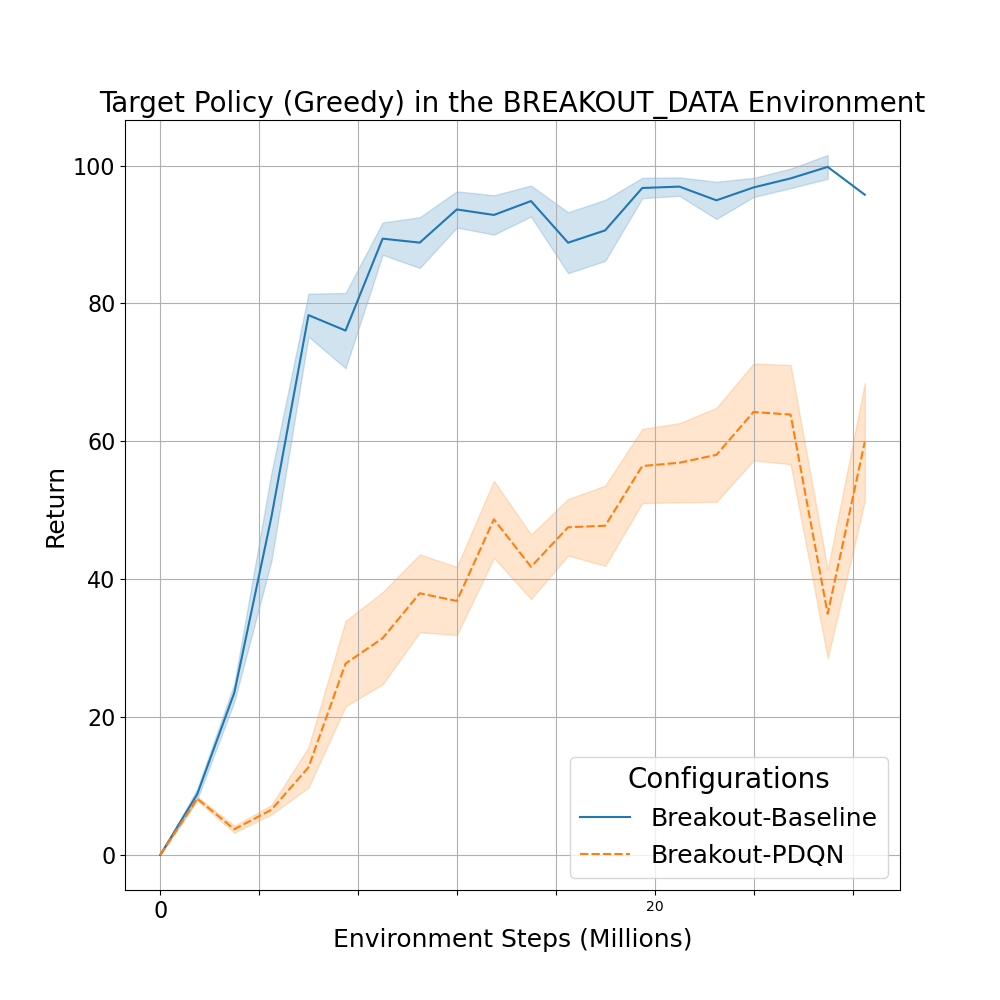
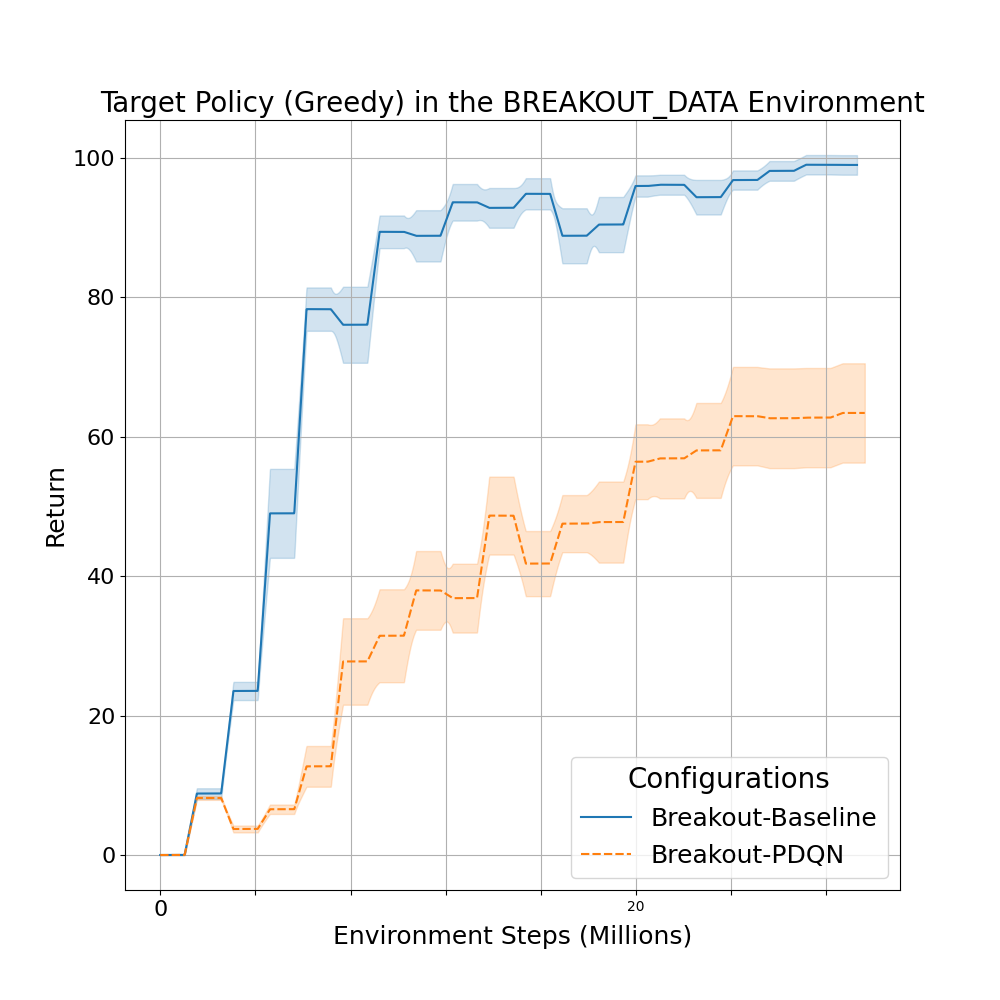
Smal adjustments and fixes to the plots

diff --git a/make_plot.py b/make_plot.py
@@ -3,6 +3,7 @@ import string
 import pandas as pd
 import seaborn as sns
 import matplotlib.pyplot as plt
+import numpy as np
 from matplotlib.ticker import MaxNLocator
 
 def load_data(folder_path):
@@ -32,31 +33,58 @@ def load_data(folder_path):
                }
      return subfolder_data
 
-def process_files(file_list, rolling_window=10, policy_type="", subfolder_name=""):
+def process_files(file_list, rolling_window=10, policy_type="", subfolder_name="", interp_step=1000, smooth_window=20):
      """
      Process files into a single DataFrame for the specified policy type.
-     - For "Target" policy, keep only the first occurrence when the 'return' value changes.
-     - For other files, process without additional filtering.
+     - For "Target" policy (NN files), interpolate return values on a common grid
+          spanning the full [min_start, max_end] across runs, forward-filling after the last point,
+          then apply light smoothing.
+     - For Behavior policy, apply rolling mean smoothing directly.
      """
      data_frames = []
+
+   # if policy_type == "Target":
+        # 1) Load each run, dedupe & collect its min/max steps
+     raw_dfs = []
+     starts, ends = [], []
      for file in file_list:
-          # Load the CSV file
-          df = pd.read_csv(file, usecols=[0, 1], header=0)  # Column A (env_step) and E (return)
+          df = pd.read_csv(file, usecols=[0, 1], header=0)
           df.columns = ['env_step', 'return']
-          
-          # Apply additional filtering for Target Policy files (files with "NN")
-          if "NN" in file and policy_type == "Target":
-               df = df.loc[df['return'] != df['return'].shift()]
-          
-          # Apply rolling mean for smoothing
-          df['return'] = df['return'].rolling(window=rolling_window, min_periods=1).mean()
-          
-          # Add metadata
-          df['Policy'] = policy_type
+          df = df.drop_duplicates(subset='env_step').sort_values('env_step')
+          raw_dfs.append(df)
+          starts.append(df['env_step'].min())
+          ends.append(df['env_step'].max())
+
+     # 2) Build a global grid from the earliest start to the latest end
+     global_start = int(min(starts))
+     global_end   = int(max(ends))
+     grid = np.arange(global_start, global_end + interp_step, interp_step)
+
+     # 3) Reindex each run onto that grid, interpolate & fill-forward, then smooth
+     for df in raw_dfs:
+          df = df.set_index('env_step').reindex(grid)
+          # linear interpolate where we have holes
+          df['return'] = df['return'].interpolate(method='linear')
+          # forward-fill beyond the last logged point (and backfill before the first)
+          df['return'] = df['return'].ffill().bfill()
+          # light centered smoothing
+          df['return'] = df['return'].rolling(window=smooth_window, center=True, min_periods=1).mean()
+
+          df = df.reset_index().rename(columns={'index': 'env_step'})
+          df['Policy']    = policy_type
           df['Subfolder'] = subfolder_name
-          
           data_frames.append(df)
-     
+
+#     else:
+#         # Behavior policy: just rolling‐mean smooth each run
+#         for file in file_list:
+#             df = pd.read_csv(file, usecols=[0, 1], header=0)
+#             df.columns = ['env_step', 'return']
+#             df['return'] = df['return'].rolling(window=rolling_window, min_periods=1).mean()
+#             df['Policy']    = policy_type
+#             df['Subfolder'] = subfolder_name
+#             data_frames.append(df)
+
      return pd.concat(data_frames, ignore_index=True) if data_frames else pd.DataFrame()
 
 
